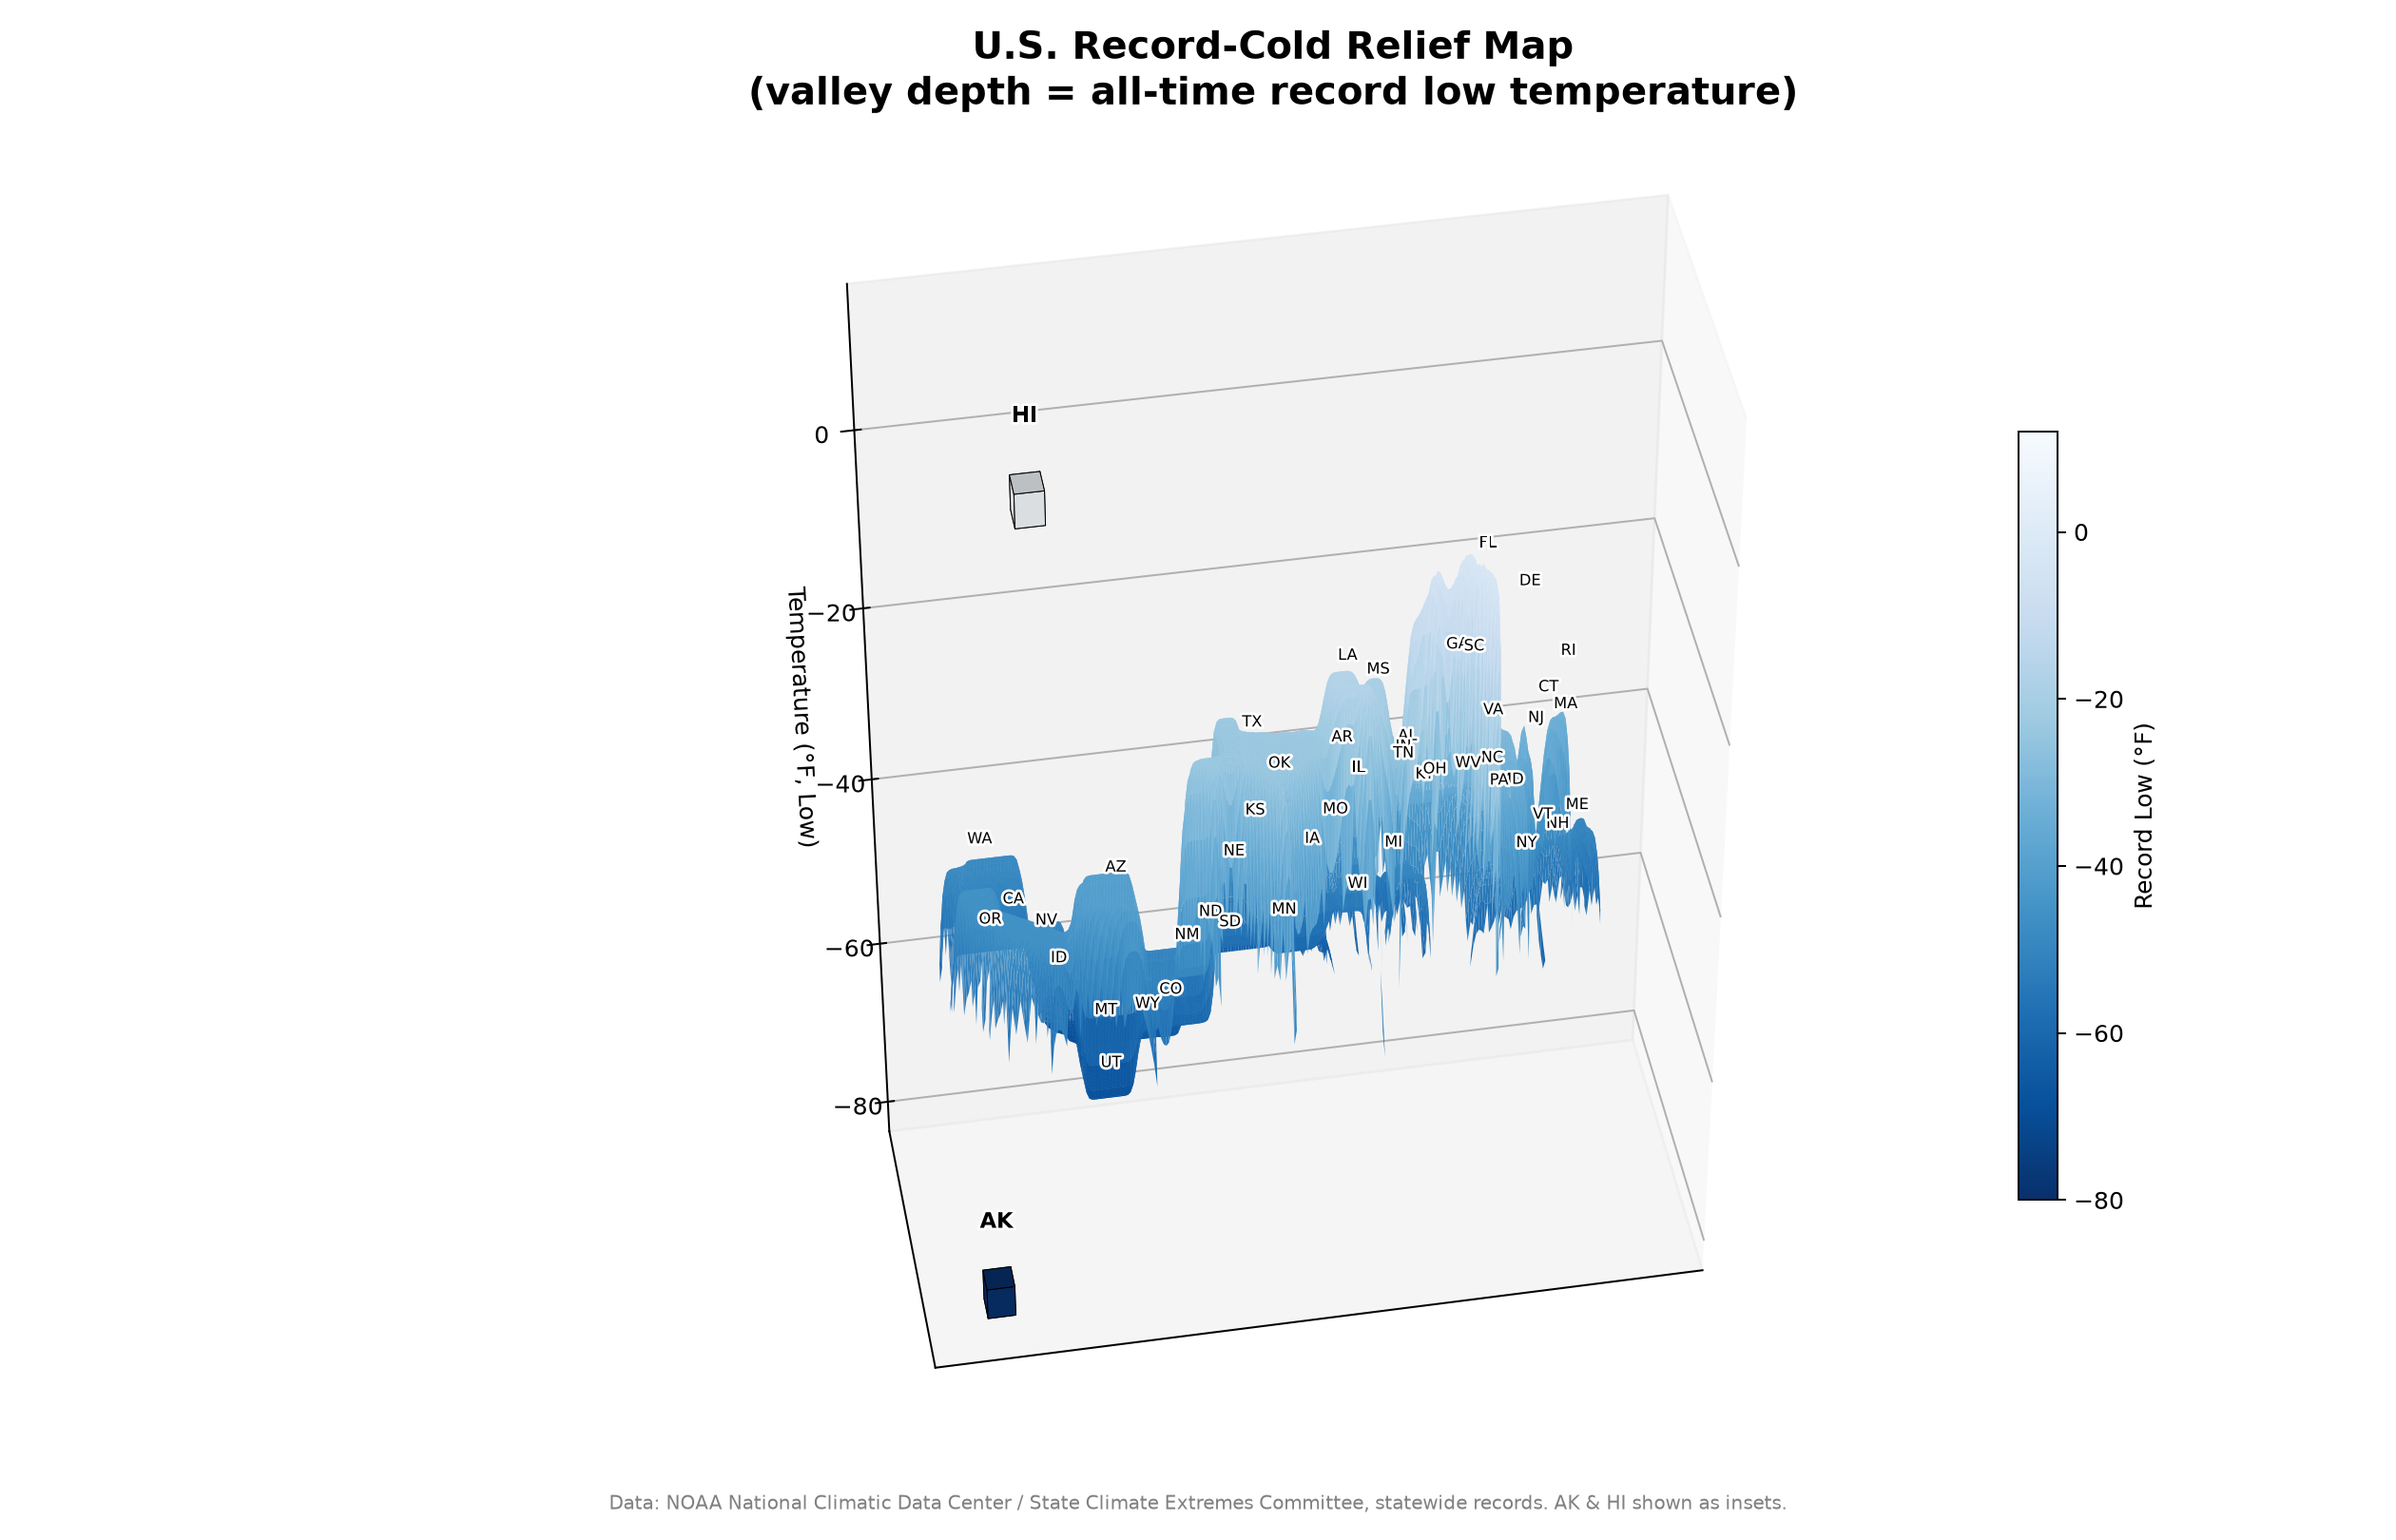
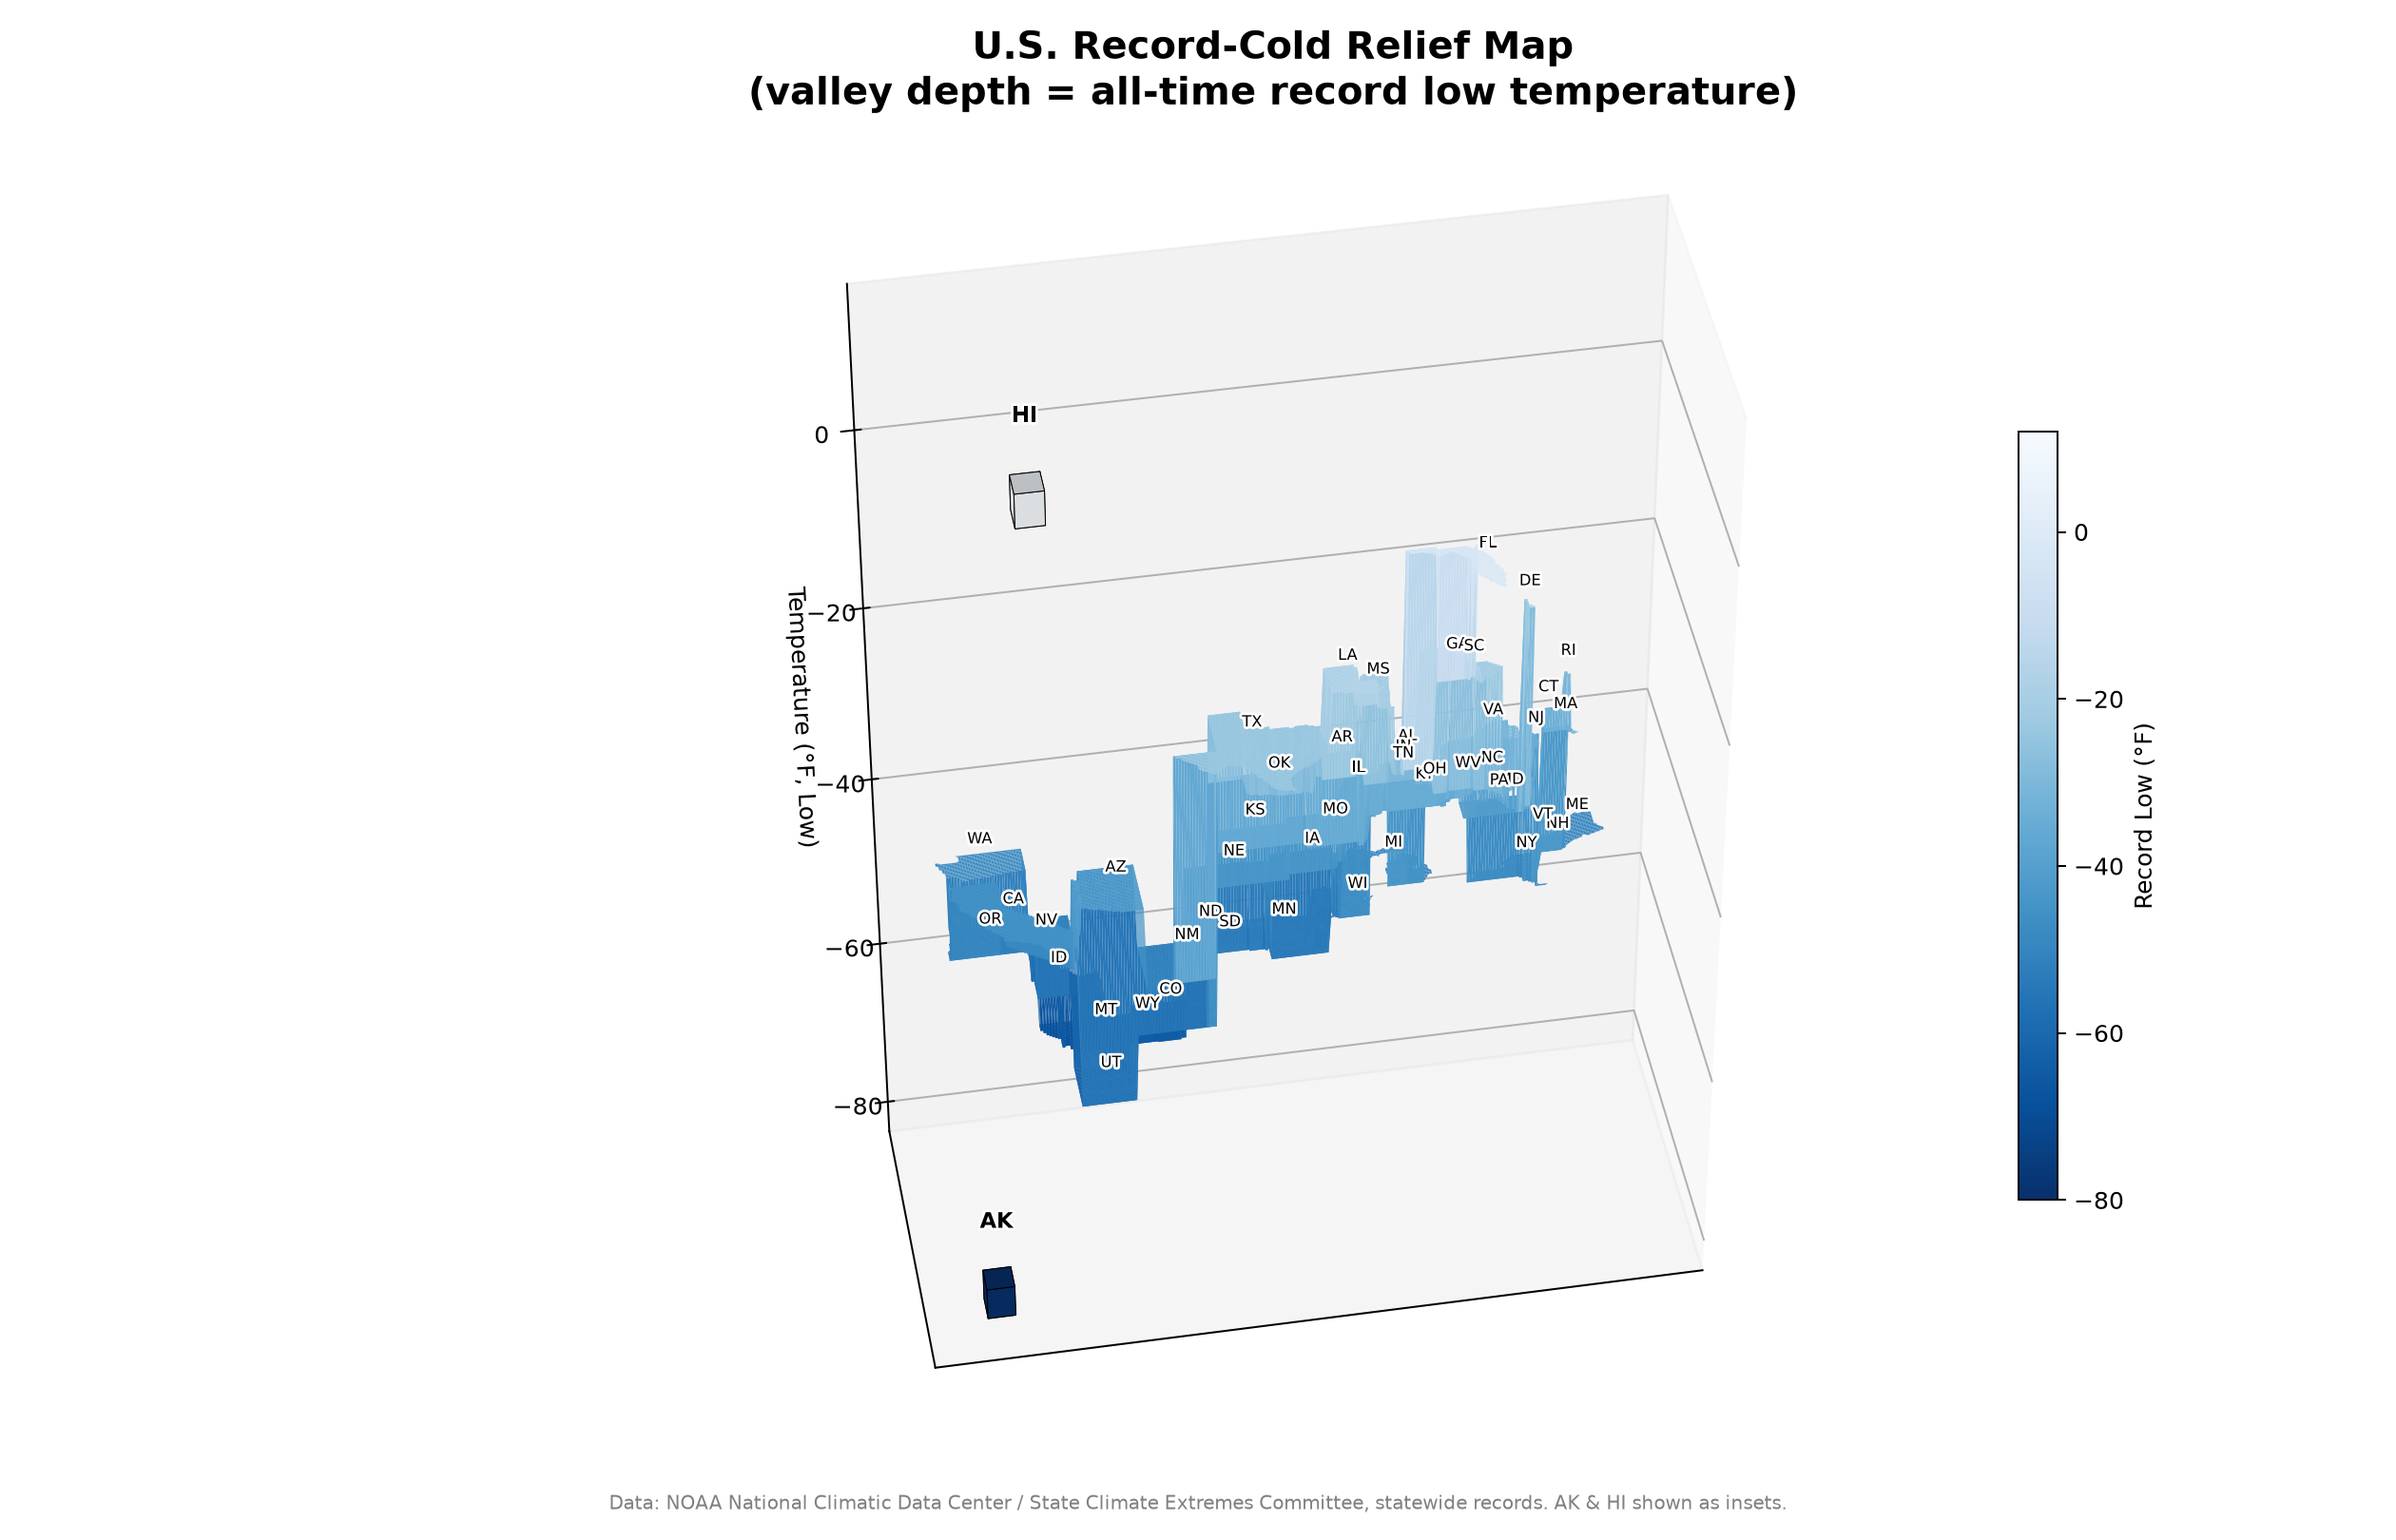
git ignore

Changed region(s): [[0.3714, 0.3395, 0.681, 0.7407]]

diff --git a/us_temperature_relief_map.py b/us_temperature_relief_map.py
@@ -45,6 +45,8 @@ Requirements (core):  numpy, scipy, matplotlib
 Requirements (optional, for USE_REAL_BORDERS): geopandas, shapely, requests
 """
 
+import os
+import pickle
 import numpy as np
 import matplotlib.pyplot as plt
 import matplotlib.patheffects as pe
@@ -374,9 +376,16 @@ def plot_relief(values, title, cmap_name, label_suffix, filename):
 
     fig.tight_layout()
     fig.savefig(filename, dpi=OUTPUT_DPI, facecolor="white")
+
+    # also pickle the live Figure so it can be reloaded later and still be
+    # rotated/zoomed interactively (a saved .png is a flat, static image)
+    pickle_path = os.path.splitext(filename)[0] + ".fig.pickle"
+    with open(pickle_path, "wb") as f:
+        pickle.dump(fig, f)
+
     plt.show(block=True)
     #plt.close(fig)
-    print(f"Saved {filename}")
+    print(f"Saved {filename} (static) and {pickle_path} (reopen with load_figure.py to rotate)")
 
 
 def main():
@@ -393,6 +402,17 @@ def main():
         cmap_name="Blues_r",
         label_suffix="Low",
         filename="us_record_low_valleys.png",
+    )
+
+    #"AL": (112, "Centerville", 1925), "AK": (100, "Fort Yukon", 1915),
+    RECORD_RANGE = {abbr: (RECORD_HIGH[abbr][0] - RECORD_LOW[abbr][0], "no location", 0) for abbr in RECORD_HIGH}
+
+    plot_relief(
+        RECORD_RANGE,
+        title="U.S. Record-Range Relief Map\n(range = all-time record high minus low temperature)",
+        cmap_name="viridis",
+        label_suffix="Range",
+        filename="us_record_range.png",
     )
 
 

diff --git a/load_figure.py b/load_figure.py
@@ -1,0 +1,24 @@
+"""Reopen a pickled matplotlib Figure (*.fig.pickle) so it can be rotated/zoomed.
+
+Usage:
+    python load_figure.py us_record_high_peaks.fig.pickle
+"""
+import pickle
+import sys
+
+import matplotlib.pyplot as plt
+
+
+def main():
+    if len(sys.argv) != 2:
+        print("Usage: python load_figure.py <file.fig.pickle>")
+        sys.exit(1)
+
+    with open(sys.argv[1], "rb") as f:
+        fig = pickle.load(f)
+
+    plt.show(block=True)
+
+
+if __name__ == "__main__":
+    main()
